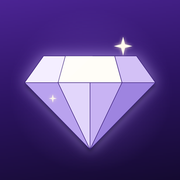
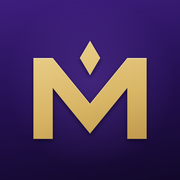
マイスタ v5: アイコンを金の幾何学的なM＋ひし形に（紫の背景はそのまま）

diff --git a/mysta/sw.js b/mysta/sw.js
@@ -2,7 +2,7 @@
    方針:「ネットワーク優先」。まずネットから最新をとり、とれたものをキャッシュに控える。
    ネットがないときだけキャッシュで動く。キャッシュを先に見る方式にすると
    「直したのに古い画面が出る」事故になるので、ぜったいにしない。 */
-const VER = 'ms-v4';
+const VER = 'ms-v5';
 self.addEventListener('install', e => self.skipWaiting());
 self.addEventListener('activate', e => {
   e.waitUntil((async () => {

diff --git a/mysta/index.html b/mysta/index.html
@@ -379,7 +379,7 @@ textarea.field{min-height:120px;}
 <div class="toast" id="toast"></div>
 
 <script>
-const VER = 4;
+const VER = 5;
 const KEY = 'mysta_v1', BK = 'mysta_backup';
 const $ = s => document.querySelector(s);
 const $$ = s => Array.from(document.querySelectorAll(s));

diff --git a/tools/mysta-icon.py b/tools/mysta-icon.py
@@ -1,4 +1,4 @@
-# マイスタ のアイコン: 深い紫の背景 + 磨き上げた宝石(極めた方法) + 小さな光
+# マイスタ のアイコン: 深い紫の背景 + 金の幾何学的な M(上にひし形)
 from PIL import Image, ImageDraw, ImageFilter
 import math, os
 
@@ -12,94 +12,63 @@ def lerp(a, b, t):
 def bg(S):
     small = 128
     im = Image.new('RGB', (small, small)); px = im.load()
-    top = (0x4B, 0x24, 0x93); mid = (0x2B, 0x13, 0x60); bot = (0x14, 0x0A, 0x30)
+    top = (0x3E, 0x1E, 0x7E); mid = (0x24, 0x10, 0x52); bot = (0x12, 0x08, 0x2A)
     for y in range(small):
         for x in range(small):
             t = (y*0.85 + x*0.15)/small
             col = lerp(top, mid, t/0.5) if t < 0.5 else lerp(mid, bot, (t-0.5)/0.5)
-            dx = (x - small*0.5)/small; dy = (y - small*0.5)/small
-            g = max(0.0, 1 - math.sqrt(dx*dx+dy*dy)*2.2)
-            col = lerp(col, (0x7C, 0x52, 0xC8), g*0.45)   # 中央のやわらかい光
+            dx = (x - small*0.5)/small; dy = (y - small*0.45)/small
+            g = max(0.0, 1 - math.sqrt(dx*dx+dy*dy)*2.1)
+            col = lerp(col, (0x6A, 0x42, 0xB4), g*0.4)
             px[x, y] = col
     return im.resize((S, S), Image.BICUBIC)
 
-# 宝石の頂点(1024基準)
-def pts(K):
-    P = lambda x, y: (x*K, y*K)
-    T1, T2, T3, T4 = P(248, 318), P(372, 318), P(652, 318), P(776, 318)
-    G1, G2, G3, G4, G5 = P(140, 470), P(330, 470), P(512, 470), P(694, 470), P(884, 470)
-    TIP = P(512, 850)
-    facets = [
-        # 冠(上)
-        ([T1, T2, G2, G1], (0xF4, 0xEE, 0xFF)),
-        ([T2, T3, G4, G2], (0xFF, 0xFD, 0xF7)),
-        ([T3, T4, G5, G4], (0xD3, 0xC1, 0xF6)),
-        # 底(下)
-        ([G1, G2, TIP], (0xB9, 0xA2, 0xEE)),
-        ([G2, G3, TIP], (0xE2, 0xD6, 0xFB)),
-        ([G3, G4, TIP], (0xC8, 0xB3, 0xF3)),
-        ([G4, G5, TIP], (0x9E, 0x84, 0xE0)),
-    ]
-    outline = [T1, T4, G5, TIP, G1]
-    return facets, outline, (T2, T3, G2, G4)
+def gold(S):
+    small = 64
+    im = Image.new('RGB', (small, small)); px = im.load()
+    g0 = (0xF6, 0xE2, 0xA8); g1 = (0xD9, 0xB6, 0x66); g2 = (0xA5, 0x7C, 0x36)
+    for y in range(small):
+        for x in range(small):
+            t = (y/small)*0.8 + (x/small)*0.2
+            px[x, y] = lerp(g0, g1, t/0.55) if t < 0.55 else lerp(g1, g2, (t-0.55)/0.45)
+    return im.resize((S, S), Image.BICUBIC)
 
-def star(d, cx, cy, r, fill):
-    p = []
-    for i in range(8):
-        a = -math.pi/2 + i*math.pi/4
-        rr = r if i % 2 == 0 else r*0.28
-        p.append((cx + rr*math.cos(a), cy + rr*math.sin(a)))
-    d.polygon(p, fill=fill)
+def m_masks(S):
+    SS = 4; W = S*SS; k = S/1024*SS
+    P = lambda x, y: (x*k, y*k)
+    m = Image.new('L', (W, W), 0); d = ImageDraw.Draw(m)
+    # M 本体
+    d.polygon([P(190,330), P(300,330), P(512,590), P(724,330), P(834,330), P(834,790),
+               P(724,790), P(724,500), P(512,760), P(300,500), P(300,790), P(190,790)], fill=255)
+    # ひし形
+    dm = Image.new('L', (W, W), 0); dd = ImageDraw.Draw(dm)
+    dd.polygon([P(512,232), P(570,330), P(512,428), P(454,330)], fill=255)
+    return m.resize((S, S), Image.LANCZOS), dm.resize((S, S), Image.LANCZOS)
 
 def make(S, maskable=False):
     K = S/1024
     img = bg(S).convert('RGBA')
-    SS = 4  # スーパーサンプリング
-    W = S*SS; k = K*SS
-    facets, outline, (T2, T3, G2, G4) = pts(k)
-
-    # 宝石の後ろの発光と影
-    gm = Image.new('L', (W, W), 0); ImageDraw.Draw(gm).polygon(outline, fill=255)
-    gm_s = gm.resize((S, S), Image.LANCZOS)
-    glow = Image.new('RGBA', (S, S), (0xC9, 0xB0, 0xFF, 0)); glow.putalpha(gm_s.filter(ImageFilter.GaussianBlur(int(40*K))).point(lambda v: int(v*0.7)))
-    img.alpha_composite(glow)
-    sh = Image.new('RGBA', (S, S), (0x0A, 0x04, 0x22, 0)); sh.putalpha(gm_s.filter(ImageFilter.GaussianBlur(int(10*K))).point(lambda v: int(v*0.55)))
-    img.alpha_composite(sh, (0, int(14*K)))
-
-    # 面
-    gem = Image.new('RGBA', (W, W), (0, 0, 0, 0)); d = ImageDraw.Draw(gem)
-    for poly, col in facets:
-        d.polygon(poly, fill=col + (255,))
-    # 面の境界線(細い深紫)
-    line = (0x3A, 0x1E, 0x7A, 255); lw = max(1, int(3.2*k))
-    edges = [
-        (facets[0][0][1], facets[0][0][2]), (facets[1][0][1], facets[1][0][2]),  # T2-G2, T3-G4
-        (G2, G4),  # 冠と底の境(中央部)
-        (outline[4], outline[2]),  # G1-G5 ガードル
-        (G2, facets[3][0][2]), (facets[4][0][1], facets[4][0][2]), (G4, facets[5][0][2]),  # 底の稜線
-    ]
-    for a, b in edges: d.line([a, b], fill=line, width=lw)
-    d.line(outline + [outline[0]], fill=line, width=lw)
-    gem = gem.resize((S, S), Image.LANCZOS)
-    img.alpha_composite(gem)
-
-    # 上面の光沢(テーブル面の左上に淡い白)
-    hl = Image.new('RGBA', (S, S), (255, 255, 255, 0)); hd = ImageDraw.Draw(hl)
-    hd.polygon([(T2[0]/SS, T2[1]/SS), ((T2[0]+ (T3[0]-T2[0])*0.55)/SS, T2[1]/SS), ((G2[0]+40*k)/SS, (G2[1]-6*k)/SS), (G2[0]/SS, (G2[1]-6*k)/SS)], fill=(255, 255, 255, 60))
+    gd = gold(S)
+    m, dm = m_masks(S)
+    both = Image.new('L', (S, S), 0); both.paste(m, (0, 0)); both.paste(255, (0, 0), dm)
+    # 影
+    sh = Image.new('RGBA', (S, S), (0x08, 0x03, 0x1C, 0)); sh.putalpha(both.filter(ImageFilter.GaussianBlur(int(12*K))).point(lambda v: int(v*0.7)))
+    img.alpha_composite(sh, (0, int(12*K)))
+    # 金
+    img.paste(gd, (0, 0), both)
+    # 上端のハイライト(細い光)
+    hl = Image.new('RGBA', (S, S), (255, 248, 225, 0))
+    edge = both.filter(ImageFilter.GaussianBlur(int(1.5*K)))
+    shifted = Image.new('L', (S, S), 0); shifted.paste(both, (0, int(5*K)))
+    top_edge = Image.eval(Image.composite(edge, Image.new('L', (S, S), 0), Image.new('L', (S, S), 255)), lambda v: v)
+    from PIL import ImageChops
+    top_edge = ImageChops.subtract(both, shifted)
+    hl.putalpha(top_edge.point(lambda v: int(v*0.55)))
     img.alpha_composite(hl)
-
-    # きらめき
-    sp = Image.new('RGBA', (S, S), (0, 0, 0, 0)); sd = ImageDraw.Draw(sp)
-    star(sd, int(700*K), int(262*K), int(52*K), (255, 250, 236, 255))
-    star(sd, int(300*K), int(560*K), int(22*K), (255, 250, 236, 220))
-    spg = sp.split()[3].filter(ImageFilter.GaussianBlur(int(10*K)))
-    g2 = Image.new('RGBA', (S, S), (255, 240, 210, 0)); g2.putalpha(spg.point(lambda v: int(v*0.9)))
-    img.alpha_composite(g2); img.alpha_composite(sp)
-
     if not maskable:
-        m = Image.new('L', (S, S), 0)
-        ImageDraw.Draw(m).rounded_rectangle([0, 0, S-1, S-1], radius=int(S*0.225), fill=255)
-        img.putalpha(m)
+        mk = Image.new('L', (S, S), 0)
+        ImageDraw.Draw(mk).rounded_rectangle([0, 0, S-1, S-1], radius=int(S*0.225), fill=255)
+        img.putalpha(mk)
     return img
 
 big = make(1024)
@@ -109,5 +78,4 @@ sq = make(1024, maskable=True)
 sq.resize((180, 180), Image.LANCZOS).convert('RGB').save(os.path.join(OUT, 'apple-touch-icon.png'))
 sq.resize((512, 512), Image.LANCZOS).save(os.path.join(OUT, 'icon-maskable.png'))
 big.save(os.path.join(SCR, 'mysta-icon-preview.png'))
-big.resize((120, 120), Image.LANCZOS).save(os.path.join(SCR, 'mysta-icon-small.png'))
 print('ok')
